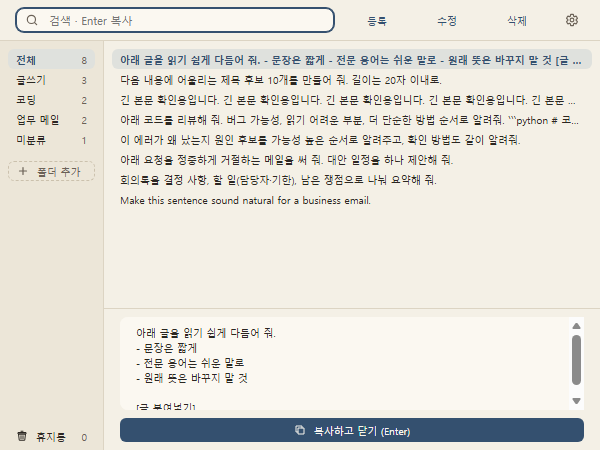
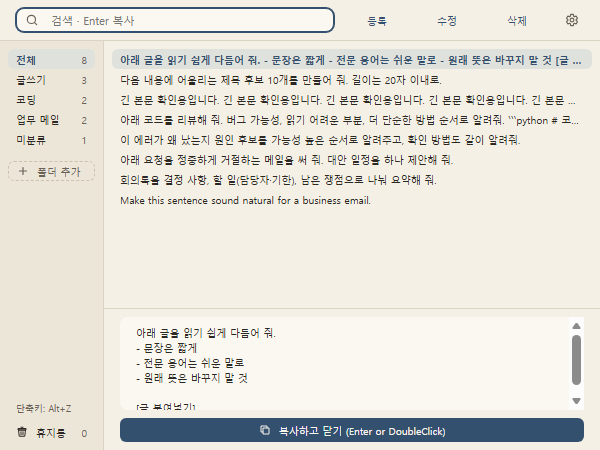
안내서 1.3.0: 텍스트 문구, 더블클릭·오른쪽 클릭, 폴더 ⋯ 사용법과 새 화면 사진 반영

Changed region(s): [[0.42, 0.9333, 0.75, 0.9644], [0.03, 0.9022, 0.15, 0.9956], [0.09, 0.0311, 0.24, 0.0622]]

diff --git a/README.md b/README.md
@@ -1,6 +1,6 @@
 # promptbox
 
-자주 쓰는 프롬프트를 모아 두고, 단축키 한 번으로 찾아 복사하는 Windows 프로그램입니다. 무료입니다.
+자주 쓰는 텍스트(AI 프롬프트, 인사말, 안내 문구, 주소 등)를 모아 두고, 단축키 한 번으로 찾아 복사하는 Windows 프로그램입니다. 무료입니다.
 
 ![promptbox 화면](images/main.png)
 
@@ -16,11 +16,12 @@
 - **Alt+Z**로 창을 열고 검색어를 입력한 뒤, **↑↓**로 고르고 **Enter**를 누르면 복사되고 창이 닫힙니다. **Esc**를 누르면 창만 닫힙니다.
 - **등록**(Ctrl+N)을 누르면 뜨는 창에 본문을 붙여넣고 **저장**(Ctrl+S)을 누르면 끝입니다. 제목은 따로 없고, 목록에는 본문이 한 줄로 보입니다.
 - 고칠 때는 **수정**(F2)을 누르면 같은 창이 뜹니다. **삭제**(Delete)를 누르면 휴지통으로 갑니다. 왼쪽 맨 아래 **휴지통**을 누르면 휴지통 창이 뜨고, 거기서 **복원**하거나 **휴지통 비우기**로 모두 지울 수 있습니다.
-- 폴더는 **폴더 추가**로 만들고, 폴더를 오른쪽 클릭해 이름을 바꾸거나 지웁니다. 프롬프트를 폴더로 끌어 놓거나 등록·수정 창의 폴더 선택칸에서 고르면 옮겨집니다.
+- 목록에서 **더블클릭**해도 복사되고, **오른쪽 클릭**하면 복사·수정·삭제 메뉴가 뜹니다.
+- 폴더는 **폴더 추가**로 만들고, 폴더에 마우스를 올리면 보이는 **⋯**(또는 오른쪽 클릭)으로 이름을 바꾸거나 지웁니다. 텍스트를 폴더로 끌어 놓거나 등록·수정 창의 폴더 선택칸에서 고르면 옮겨집니다.
 - 오른쪽 위 톱니 버튼(**설정**)에서 단축키를 바꾸고, Windows 시작 시 자동 실행을 켤 수 있습니다.
 
 ## 알아 둘 것
 
 - 창을 닫아도 작업 표시줄 오른쪽 트레이에서 계속 기다립니다. 완전히 끄려면 트레이 아이콘을 오른쪽 클릭 → **끝내기**를 누릅니다.
 - 새 버전이 나오면 화면 위쪽에 알림이 뜹니다. **업데이트**를 누르면 설치하고 다시 켜집니다.
-- 프롬프트는 `%APPDATA%\promptbox\`에 저장됩니다. 프로그램을 제거해도 이 폴더는 남아서, 다시 설치하면 그대로 이어서 씁니다.
+- 텍스트는 `%APPDATA%\promptbox\`에 저장됩니다. 프로그램을 제거해도 이 폴더는 남아서, 다시 설치하면 그대로 이어서 씁니다.
